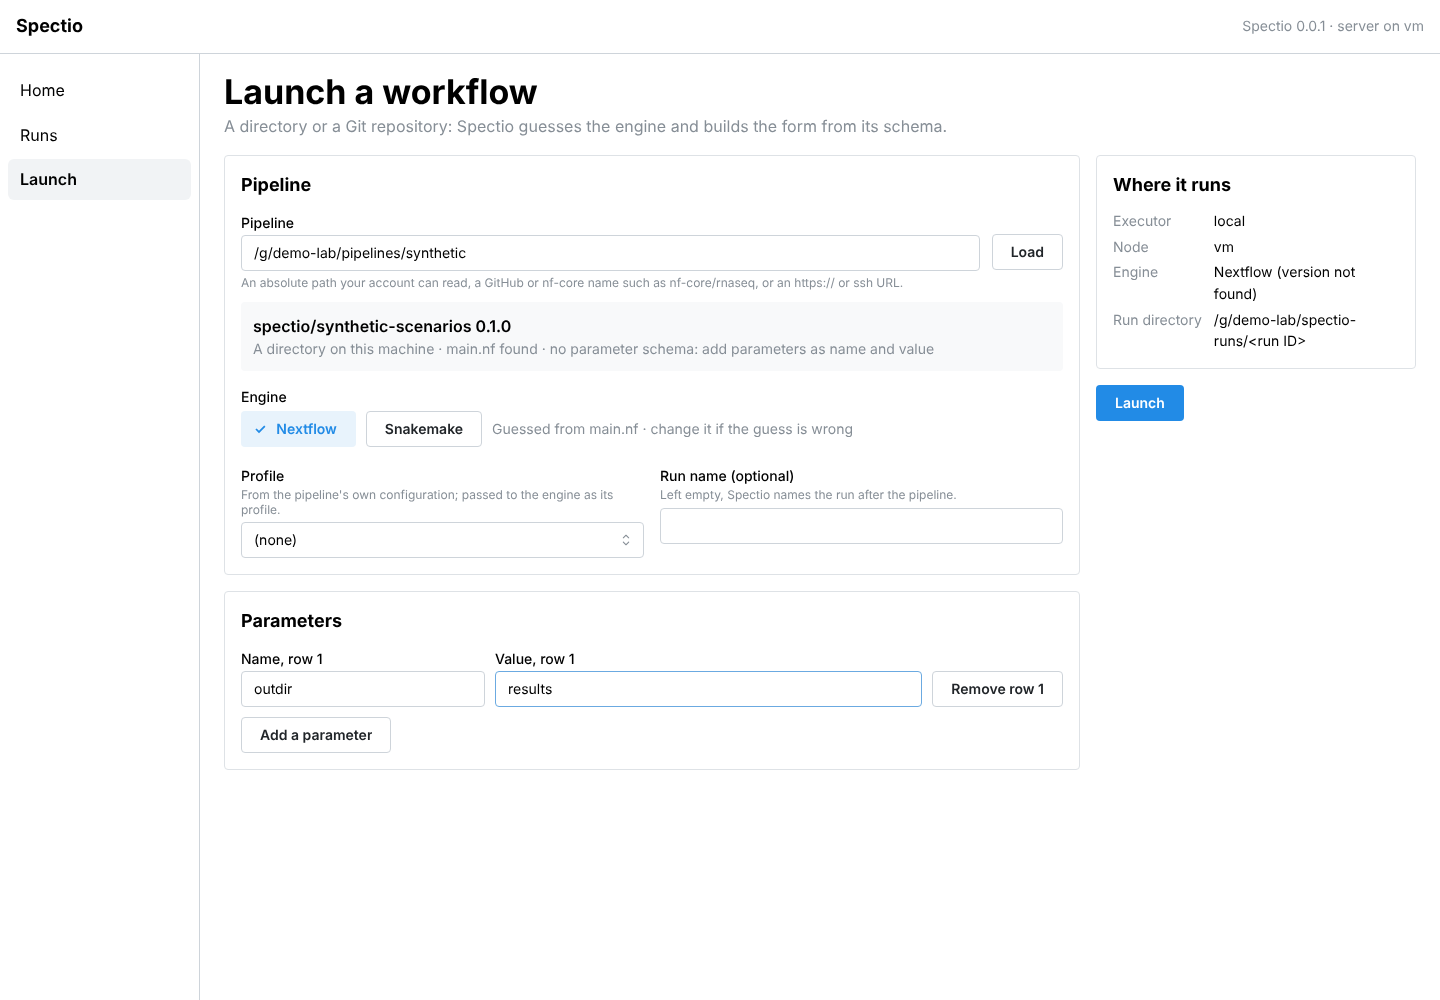
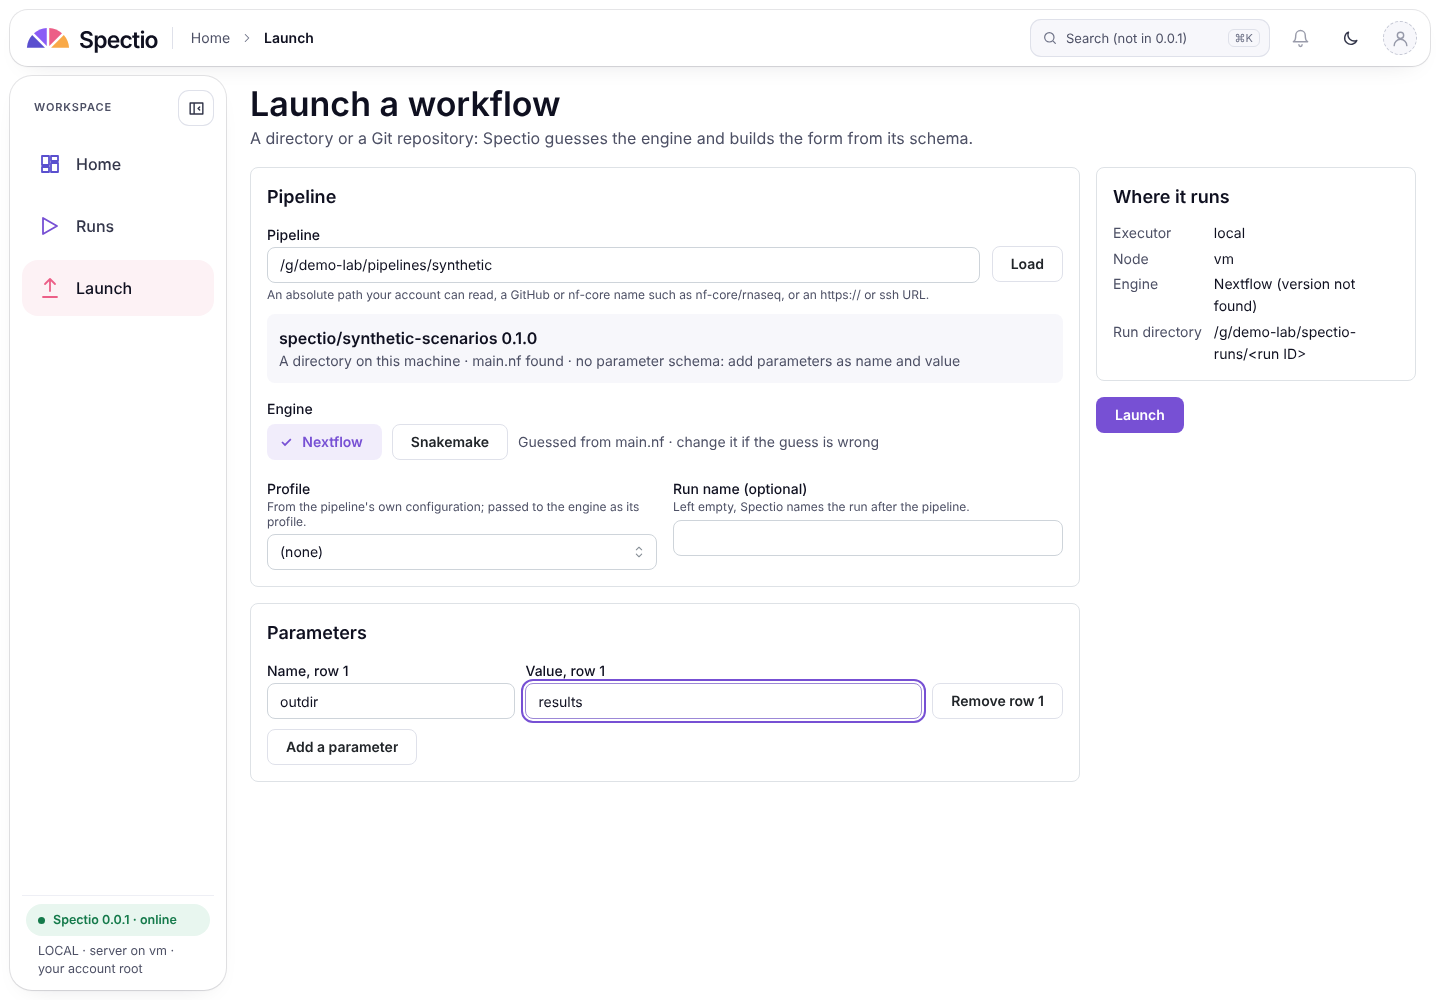
docs(media): app-launch through the Paper shell, light and dark, desktop and phone; inbox #89
Claude-Session: https://claude.ai/code/session_01MF8RxLfMAXBpezLW6Efe78

diff --git a/tools/media/live.js b/tools/media/live.js
@@ -1,6 +1,7 @@
 // Capture a page of a running Spectio (`spectio serve`), after a few steps (P1 Task 19).
 //   SPECTIO_URL=http://… node tools/media/live.js <route> <width> <height> <out.png> [step…]
-// $NAME in a step is replaced by that environment variable.
+// $NAME in a step is replaced by that environment variable; SPECTIO_THEME (light or dark) sets the
+// browser's colour scheme, which the screens follow until a theme is picked.
 // Steps: fill:<label>=<value> (the field whose accessible name starts with <label>),
 // click:<button name>, wait:<visible text>. Run through shots.py, which preloads page_text.js
 // for the hygiene check.
@@ -11,7 +12,7 @@ const url = process.env.SPECTIO_URL.replace(/\/+$/, '') + route;
 const steps = raw.map((s) => s.replace(/\$(\w+)/g, (m, name) => process.env[name] ?? m));
 (async () => {
   const browser = await chromium.launch();
-  const page = await browser.newPage({ viewport: { width: +W, height: +H }, colorScheme: 'light' });
+  const page = await browser.newPage({ viewport: { width: +W, height: +H }, colorScheme: process.env.SPECTIO_THEME === 'dark' ? 'dark' : 'light' });
   await page.goto(url, { waitUntil: 'networkidle' });
   for (const step of steps) {
     const [kind, arg] = [step.slice(0, step.indexOf(':')), step.slice(step.indexOf(':') + 1)];

diff --git a/tools/media/shots.py b/tools/media/shots.py
@@ -44,9 +44,12 @@ class Shot:
     height: int
     caption: str
     clicks: tuple[str, ...] = ()  # CSS selectors clicked before the capture
-    themes: tuple[str, ...] = ("light",)  # boards: light only for now
+    themes: tuple[str, ...] = ("light",)  # boards: light only for now; live screens: both
     live: tuple[str, ...] | None = None  # a live page: steps of live.js; `board` is its path
 
+
+APP_LAUNCH = ("fill:Pipeline=$SPECTIO_DEMO_PIPELINE", "click:Load", "wait:no parameter schema",
+              "click:Add a parameter", "fill:Name, row 1=outdir", "fill:Value, row 1=results")
 
 REGISTRY: dict[str, Shot] = {
     s.name: s
@@ -67,8 +70,9 @@ REGISTRY: dict[str, Shot] = {
         # Live: from a running `spectio serve` at $SPECTIO_URL, with the synthetic Nextflow pipeline
         # copied to $SPECTIO_DEMO_PIPELINE (a path free of forbidden terms, fixtures.yaml).
         Shot("app-launch", "/launch", 1440, 1000, "0.0.1, live: the launch form with the synthetic Nextflow pipeline loaded",
-             live=("fill:Pipeline=$SPECTIO_DEMO_PIPELINE", "click:Load", "wait:no parameter schema",
-                   "click:Add a parameter", "fill:Name, row 1=outdir", "fill:Value, row 1=results")),
+             themes=("light", "dark"), live=APP_LAUNCH),
+        Shot("app-launch-phone", "/launch", 390, 844, "0.0.1, live: the same launch form on a phone",
+             themes=("light", "dark"), live=APP_LAUNCH),
     )
 }
 
@@ -93,7 +97,7 @@ def render(shot: Shot, theme: str) -> Path | None:
             cmd = [*preload, str(Path(__file__).resolve().parent / "live.js"), shot.board,
                    str(shot.width), str(shot.height), str(png), *shot.live]
         subprocess.run(cmd, check=True, capture_output=True, cwd=REPO,
-                       env={**os.environ, "SPECTIO_PAGE_TEXT": str(text)})
+                       env={**os.environ, "SPECTIO_PAGE_TEXT": str(text), "SPECTIO_THEME": theme})
         found = sanitize.leaks(text.read_text(encoding="utf-8"))
         if found:
             sys.exit(f"{shot.name}: forbidden term visible in the rendered page: {found}")

diff --git a/docs/reviews/inbox.md b/docs/reviews/inbox.md
@@ -1406,3 +1406,18 @@ From the [spikes round](spikes.md): the differences that T2, T3, T4 and T7 measu
 - **Recommendation:** (a). (b) costs a templated `index.html` and a rewrite of every layout prop for a risk (style injection) that needs an HTML injection first, which React's escaping blocks; (c) is worth it once Task 20 adds the read routes.
 - **Assumed (2026-10-30, standing rule, inbox #80):** (a), pending Thomas. The reserved question of #86 (serving a session-less API, and now the screens, at all) is unchanged and still Thomas's. Rules 1 to 3 are written into [dev-env §15.3](../specs/dev-environment-and-testing.md#153-001-on-a-cluster-architecture-and-safety-without-accounts) req. 17 and rule 6 into the [ui-spec §4.6 note of 2026-10-30](../specs/ui-spec.md#46-launch-and-relaunch); rule 5's stack is P1 Task 19's interface, for the next `/apply-findings`. Open from the review: follow-up FU-P3-22 ([P3-M4](../progress/W5/P3-M4.md#findings-and-open-questions)).
 - **Blocked:** nothing.
+
+### #89 · Assumed: the Paper shell in `web/` (G4)
+
+- **Covers:** [P2 §10.5 G4](../plans/P2-execution.md#105-g4-the-paper-shell-in-web); [ui-spec §7](../specs/ui-spec.md#7-consistency-with-depictio-reuse-plan) and [§4.11](../specs/ui-spec.md#411-phone-and-tablet); inbox [#88](#88-assumed-the-001-screens-and-launch-form-in-the-local-only-order) rule 8.
+- **Context:** G4 rewrites Task 19's thin shell as the Paper shell in `web/src/shell/`, after the G1 boards. It took these rules:
+  1. **Tokens.** `theme.ts` holds the scales and role tokens of `design/tokens/spectio-tokens.css` and emits them as `--sp-*` variables through Mantine's `cssVariablesResolver`, light and dark. A few roles are not in the tokens file and were added: `surface-bar`, `ok-*` and `down-*` (the succeeded and failed state colours, for server status), the section tints (light from the boards; dark as 14–16 % of the section colour), and `shadow`.
+  2. **Scheme.** The default is `auto` (the system's scheme) until the reader presses the theme switch; the choice is kept in `localStorage` (`spectio-color-scheme`) by Mantine's manager, which wraps each access in try/catch. No inline script sets the scheme before the first paint (the CSP forbids it), so a dark choice can show light for one frame.
+  3. **Theme toggle.** A native `<button role="switch" aria-checked>` named "Dark theme", as on the G1 boards.
+  4. **Layout by `matchMedia`, not CSS alone.** Phone (< 768 px) renders the tab bar and no sidebar; tablet (768–1199 px) starts with the sidebar folded to the rail; the reader's own fold then wins until reload.
+  5. **Fonts.** Inter and Outfit are named but not shipped: the CSP allows fonts from this origin only, and no font package was added; browsers without them fall back to `system-ui`.
+  6. **Carried for Task 20:** `.sp-table [data-wide]` hides a column below 1100 px (UX-G3a-05: mark Started with it); `.sp-page-title` and `.sp-page-sub` wrap instead of an ellipsis (UX-G3a-06: the phone run title and state line). The phone top bar's title row and back chevron come with Task 20's run detail.
+- **Options:** (a) keep rules 1 to 6; (b) self-host Inter and Outfit now (`@fontsource`, two pinned packages); (c) default to light instead of `auto`.
+- **Recommendation:** (a). (b) is worth doing with Task 21's packaging; (c) ignores the reader's system setting.
+- **Assumed (2026-10-30, standing rule of [autopilot §10](../playbooks/autopilot.md#10-unattended-mode-thomas-2026-10-30)):** (a), pending Thomas.
+- **Blocked:** nothing.
